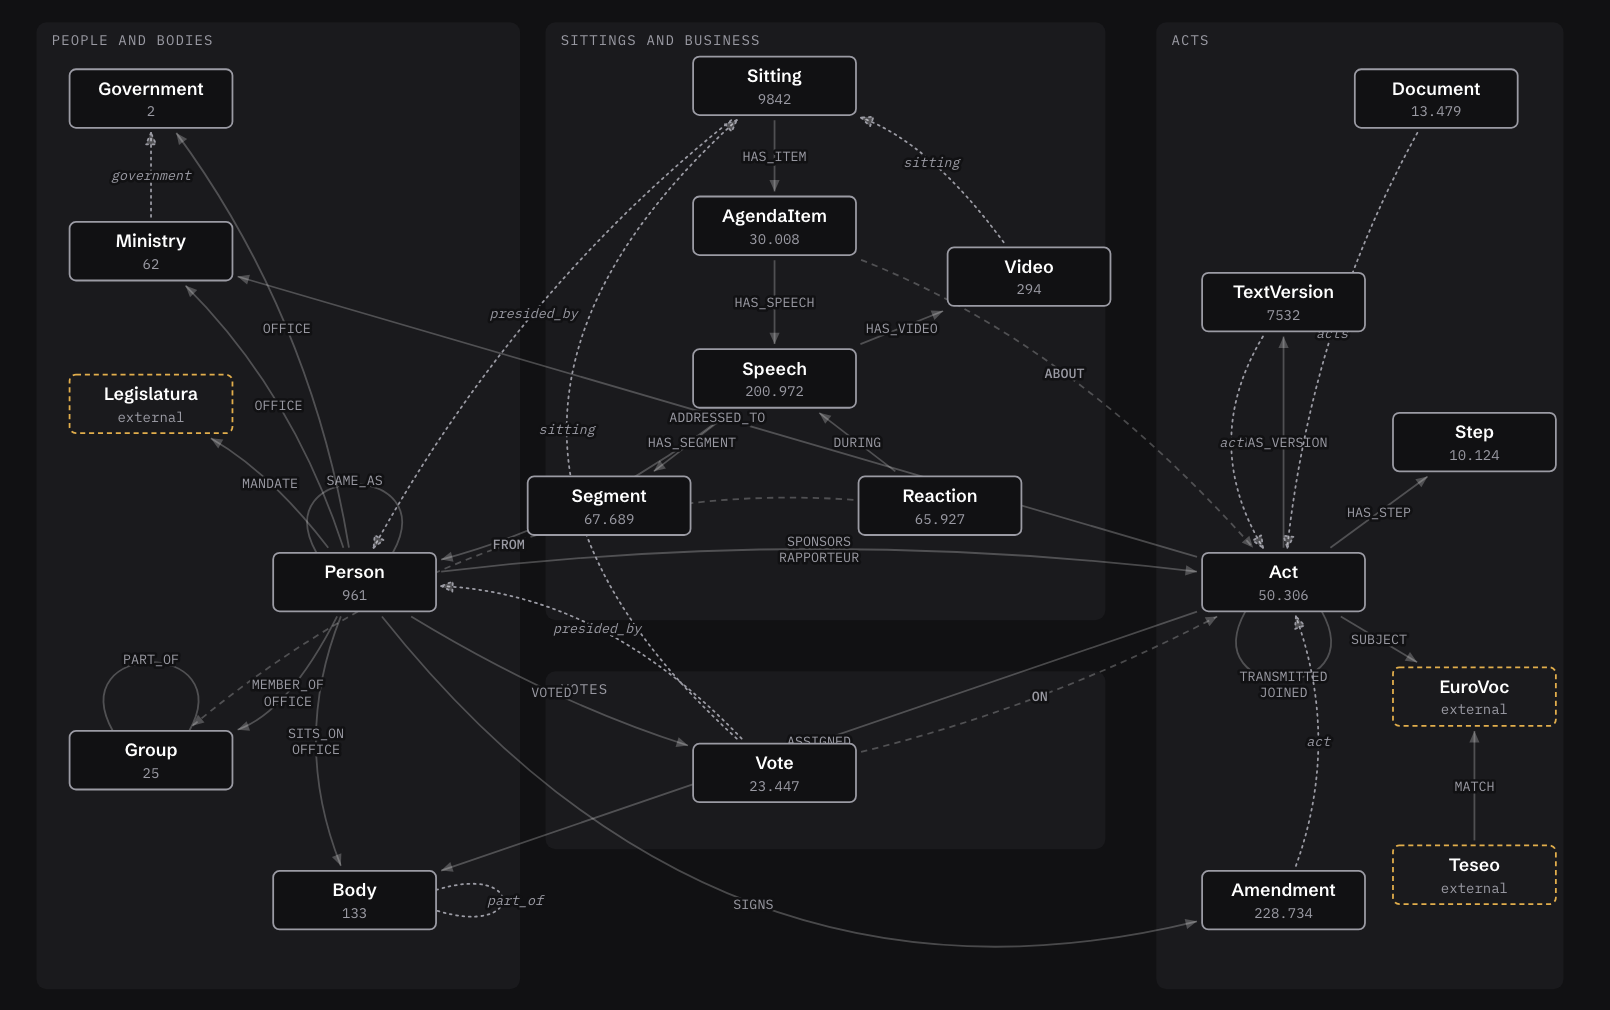
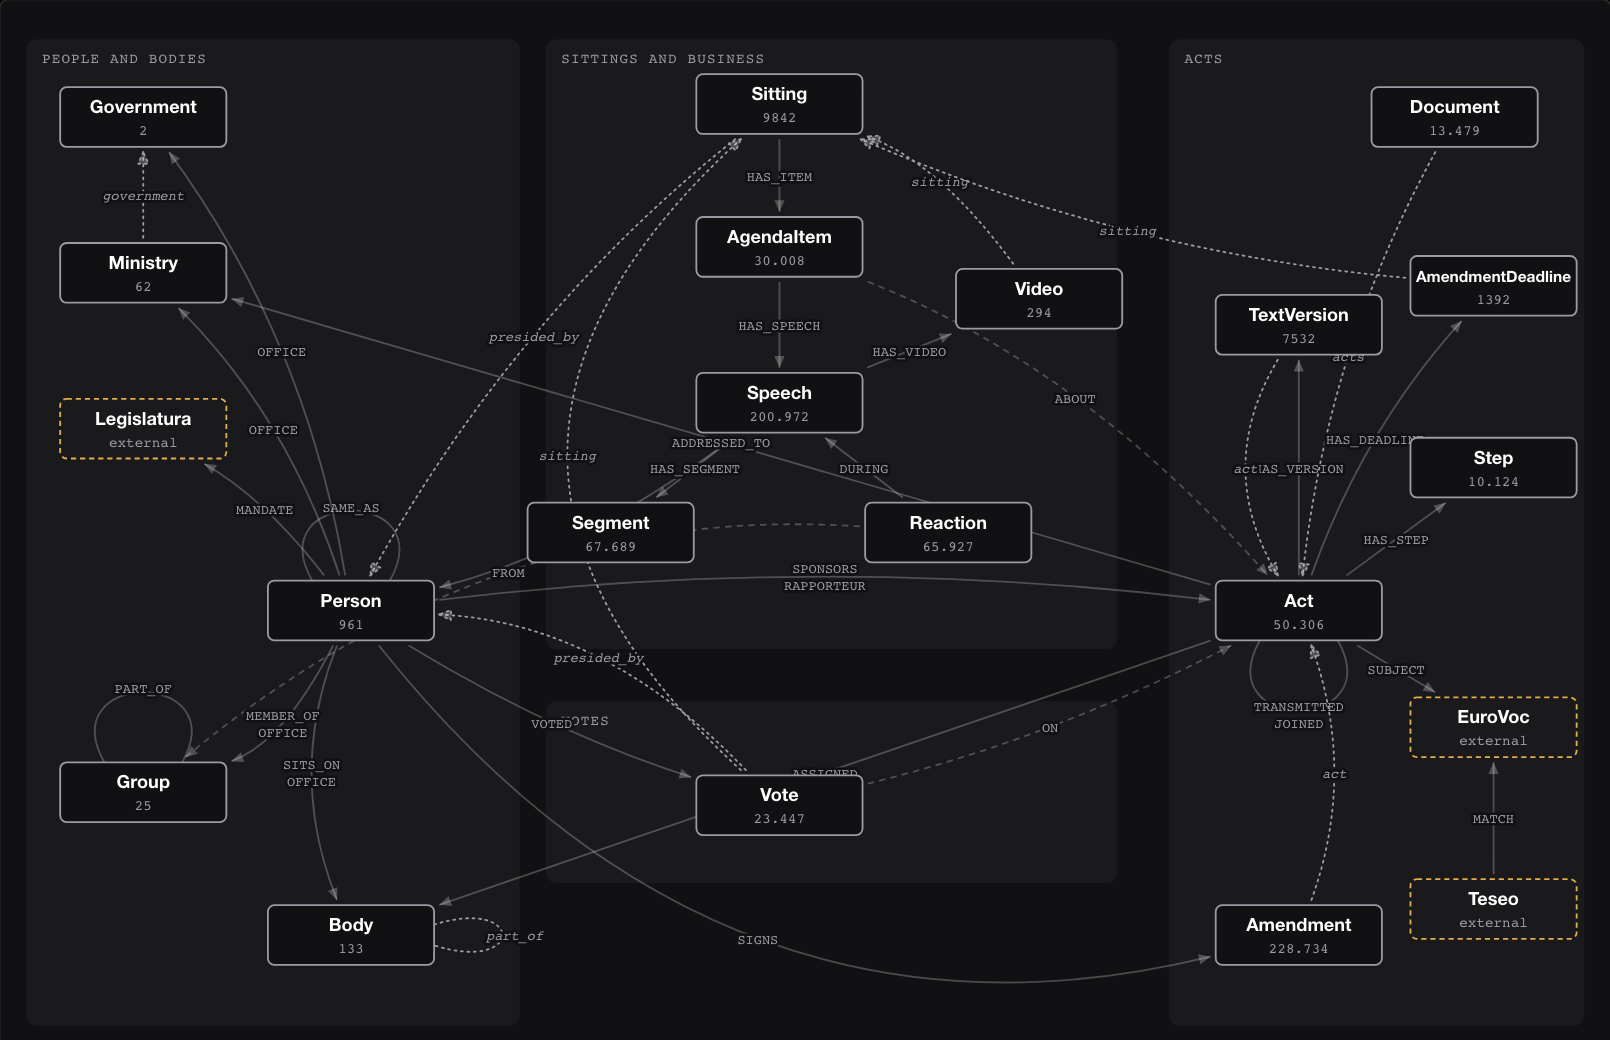
docs(readme): agenda e termini per gli emendamenti nel modello di ParliamentRAG

diff --git a/README.md b/README.md
@@ -20,7 +20,7 @@ Parliament publishes every debate, act and roll-call vote as open data. That rec
 2. **Authoritative speakers.** An authority model ranks members on the topic by their speeches, acts, committee seats and roles.
 3. **Exact quotes with official links.** Each quotation links to its passage in the official record. A check drops any quote that does not match the source word for word before you read it.
 
-Everything lives at [www.parliamentrag.it](https://www.parliamentrag.it/): a chat, a dossier per topic with what each group said and how it voted, every roll-call vote seat by seat, amendments, member profiles, an open API and an MCP server for AI assistants. It runs on our own server in Europe and updates every night from official open data.
+Everything lives at [www.parliamentrag.it](https://www.parliamentrag.it/): a chat, a dossier per topic with what each group said and how it voted, every roll-call vote seat by seat, amendments, an agenda of sittings and amendment deadlines, member profiles, an open API and an MCP server for AI assistants. It runs on our own server in Europe and updates every night from official open data.
 
 > 1,207 plenary sittings · 469k speeches · 50k acts · 28.7k roll-call votes · 9.7M individual votes · 230k amendments  
 > XIX Legislature, from October 2022 to today
